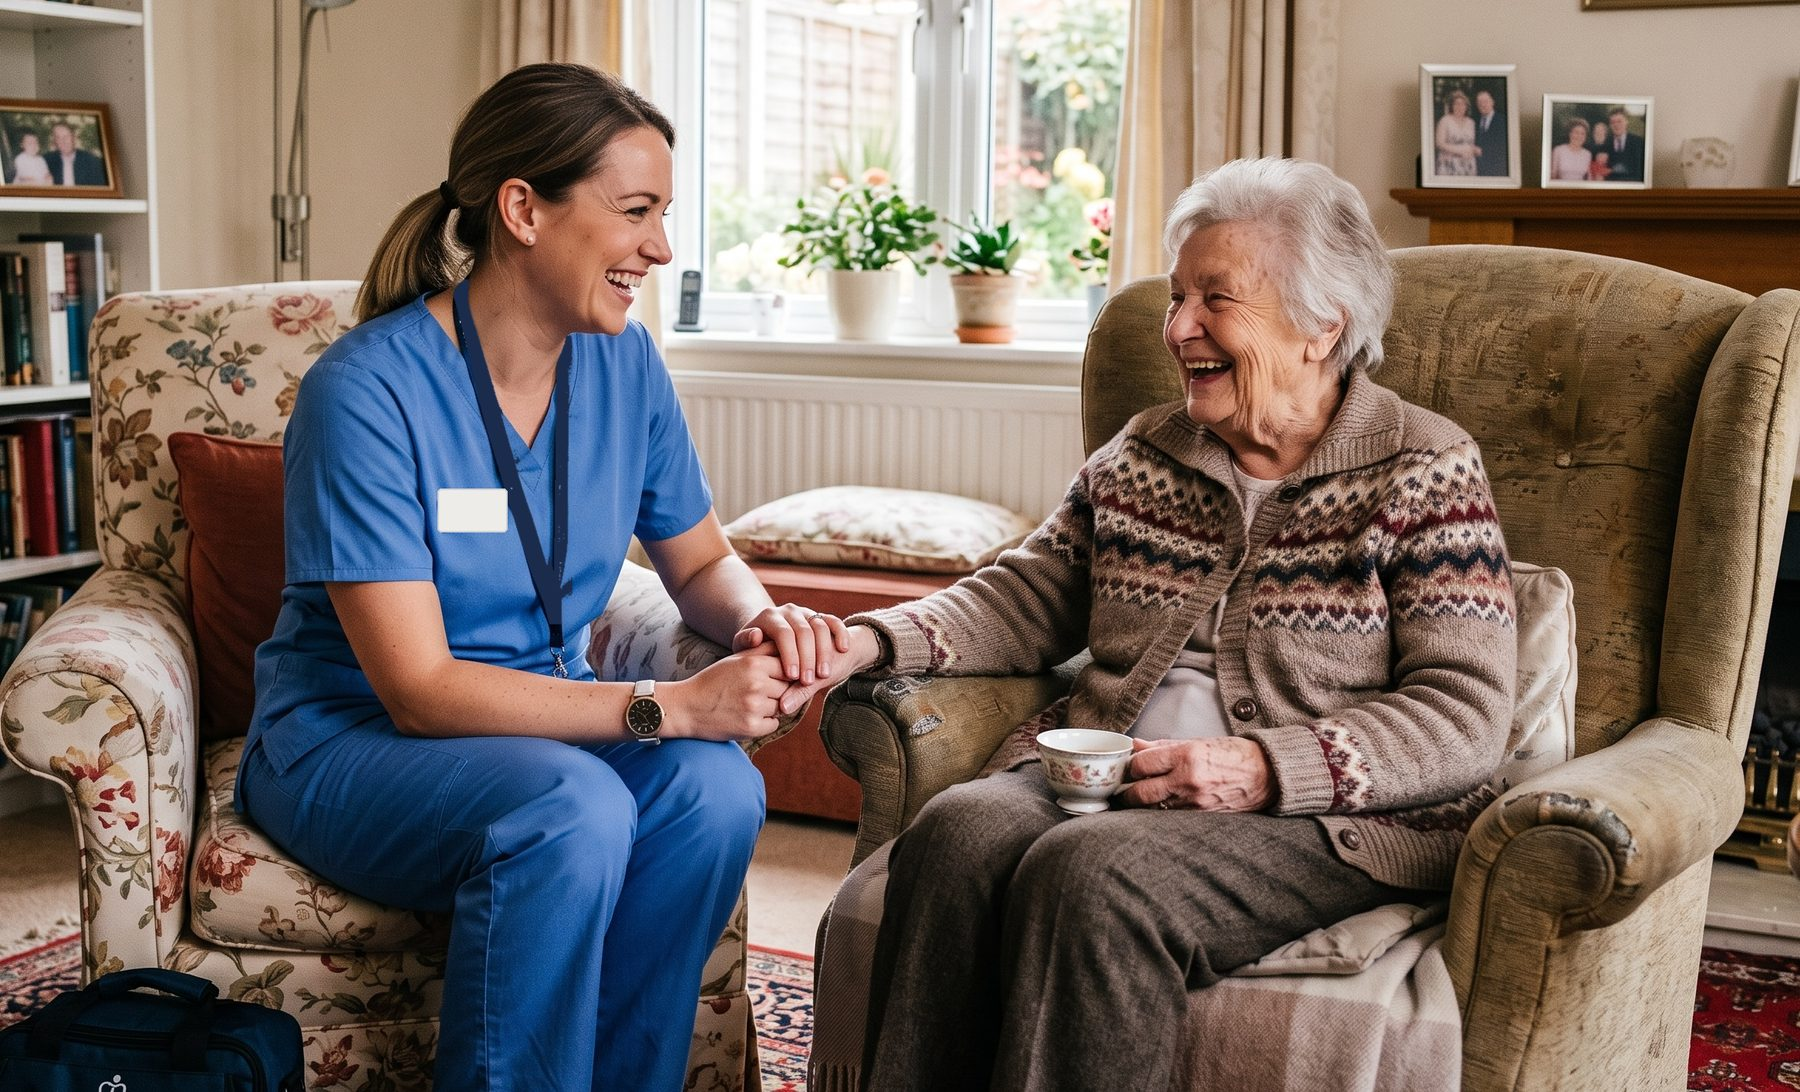
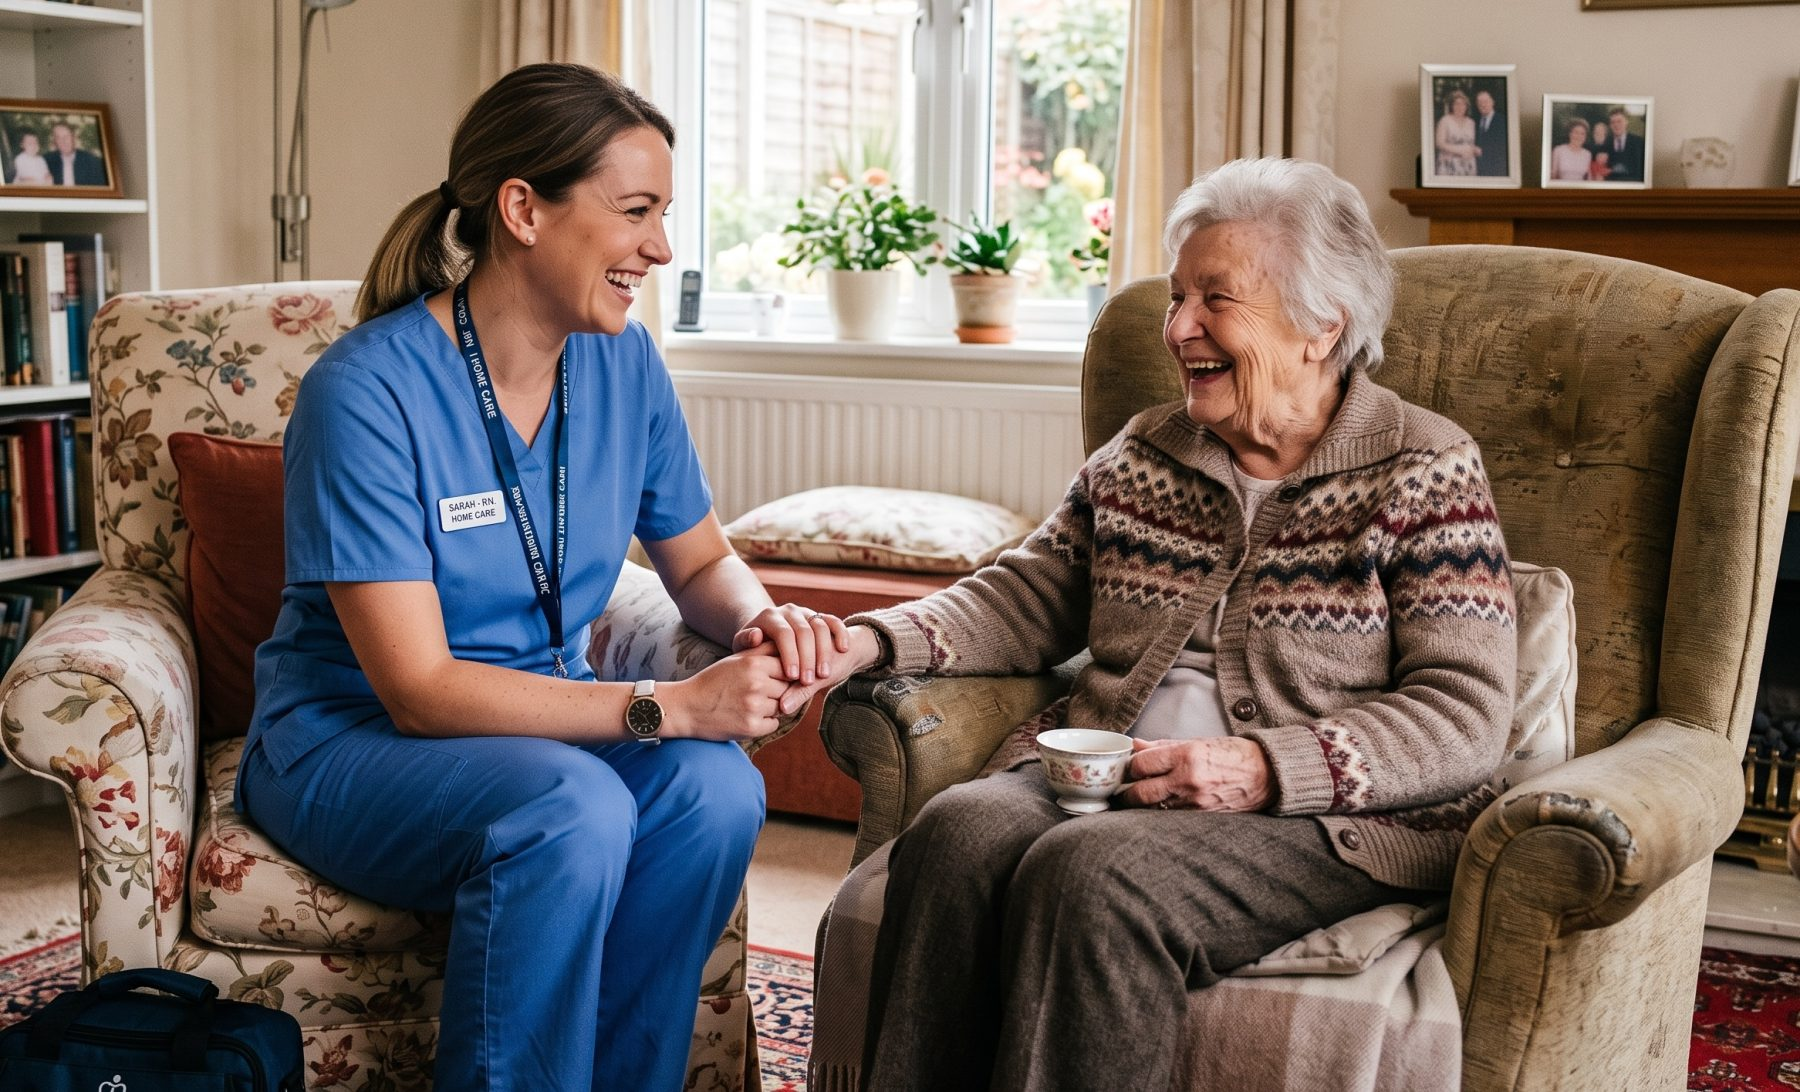
Home page photos in place and warm palette as the default

Changed region(s): [[0.2489, 0.3114, 0.3422, 0.5604], [0.2489, 0.2491, 0.28, 0.4048]]

diff --git a/app/page.tsx b/app/page.tsx
@@ -9,11 +9,11 @@ import { HONEST, PROMISE } from '@/lib/site'
 
 // The five types of care shown with thumbnails. Each links to its own page.
 const CARE = [
-  { slug: 'home-care', name: 'Visiting care', line: 'Help at the times of day it’s needed most.', link: 'Visiting home care', brief: 'a carer helping an older man with breakfast in his kitchen' },
-  { slug: 'live-in-care', name: 'Live-in care', line: 'A carer who lives in, for support day and night.', link: 'Live-in care', brief: 'a live-in carer and an older woman gardening together' },
-  { slug: 'overnight-care', name: 'Overnight care', line: 'Someone there through the night, awake or asleep.', link: 'Overnight care', brief: 'a calm evening scene, carer settling an older man with a cup of tea' },
-  { slug: 'dementia-care-at-home', name: 'Dementia care at home', line: 'Familiar faces, familiar routines, at home.', link: 'Dementia care at home', brief: 'a carer and an older woman looking through a photo album' },
-  { slug: 'respite-care-at-home', name: 'Respite care', line: 'Cover at home so a family carer can rest.', link: 'Respite care at home', brief: 'a daughter relaxing with a coffee while a carer chats with her father' },
+  { slug: 'home-care', name: 'Visiting care', line: 'Help at the times of day it’s needed most.', link: 'Visiting home care', brief: 'A carer sharing breakfast with an older man in his kitchen', img: '/images/care-visiting.jpg' },
+  { slug: 'live-in-care', name: 'Live-in care', line: 'A carer who lives in, for support day and night.', link: 'Live-in care', brief: 'A live-in carer and an older woman planting flowers together in her garden', img: '/images/care-live-in.jpg' },
+  { slug: 'overnight-care', name: 'Overnight care', line: 'Someone there through the night, awake or asleep.', link: 'Overnight care', brief: 'A carer bringing an older man a cup of tea in the evening', img: '/images/care-overnight.jpg' },
+  { slug: 'dementia-care-at-home', name: 'Dementia care at home', line: 'Familiar faces, familiar routines, at home.', link: 'Dementia care at home', brief: 'A carer and an older woman looking through a photo album together', img: '/images/care-dementia.jpg' },
+  { slug: 'respite-care-at-home', name: 'Respite care', line: 'Cover at home so a family carer can rest.', link: 'Respite care at home', brief: 'A daughter relaxing with a cup of tea while her father chats with his carer', img: '/images/care-respite.jpg' },
 ]
 
 export default function Home() {
@@ -52,7 +52,7 @@ export default function Home() {
               <p>Visiting care, live-in care, overnight and dementia care, from agencies near you.</p>
               <span className="go">Get matched, it’s free →</span>
             </div>
-            <Slot className="round" brief="a family member on the phone, smiling, at home" />
+            <Slot className="round" brief="A smiling woman on the phone at home" src="/images/family-phone.jpg" />
           </Link>
           <Link className="path dark" href="/for-agencies">
             <div>
@@ -61,7 +61,7 @@ export default function Home() {
               <p>Enquiries from families in the postcodes you cover. Pay per enquiry, no contract.</p>
               <span className="go">How it works for agencies →</span>
             </div>
-            <Slot className="round" brief="a care manager at a desk with a headset" />
+            <Slot className="round" brief="A care manager on a headset at her desk" src="/images/agency-manager.jpg" />
           </Link>
         </div>
       </div></section>
@@ -74,7 +74,7 @@ export default function Home() {
         <div className="care-cards">
           {CARE.map((c) => (
             <Link className="care-card" key={c.slug} href={`/${c.slug}`}>
-              <Slot brief={c.brief} />
+              <Slot brief={c.brief} src={c.img} />
               <div className="body"><h3>{c.name}</h3><p>{c.line}</p><span className="go">{c.link} →</span></div>
             </Link>
           ))}
@@ -96,7 +96,7 @@ export default function Home() {
             </ul>
             <p><Link className="btn" href="/how-it-works">How matching works</Link></p>
           </div>
-          <Slot className="big" brief="a relaxed family and carer chatting in a sunny kitchen" />
+          <Slot className="big wide" brief="A family and their carer chatting over tea around the kitchen table" src="/images/why-kitchen.jpg" />
         </div>
       </div></section>
 

diff --git a/app/globals.css b/app/globals.css
@@ -1,12 +1,12 @@
-/* Garden: calm greens, one marigold highlight, large legible type. Static heroes, no motion.
+/* Garden (warm): green and marigold brand on cream and sand neutrals, large legible type. Static heroes, no motion.
    Layout: a single 1120px column; sections alternate plain and tinted bands. */
 :root {
-  --bg: #F4F6F1;
-  --alt: #E6EDE3;
+  --bg: #FBF7F0;
+  --alt: #F3ECE1;
   --card: #FFFFFF;
   --ink: #173828;
-  --soft: #3F5A4B;
-  --line: #C9D6C6;
+  --soft: #4E5B52;
+  --line: #E6DCCC;
   --btn: #1E5A41;
   --btn-hover: #174733;
   --btn-ink: #FFFFFF;
@@ -306,19 +306,8 @@ th, td { text-align: left; padding: 10px 12px; border-bottom: 1px solid var(--li
 .path .slot { aspect-ratio: 1 / 1; width: 100%; }
 .path .slot span { display: none; }
 
-/* Warm variant for comparison: same green and marigold brand, warmer neutrals (cream ground, sand bands). */
-:root[data-palette="warm"] {
-  --bg: #FBF7F0;
-  --alt: #F3ECE1;
-  --card: #FFFFFF;
-  --soft: #4E5B52;
-  --line: #E6DCCC;
-}
-:root[data-palette="warm"] .slot { background: linear-gradient(160deg, #F3ECE1, #F6E3B4); }
-
-/* Preview-only palette switch */
-.palette-switch { position: fixed; right: 16px; bottom: calc(16px + env(safe-area-inset-bottom, 0px)); z-index: 50; background: #1C2230; color: #fff; border-radius: 999px; padding: 6px; display: flex; gap: 4px; align-items: center; font: 600 13px/1 system-ui, sans-serif; box-shadow: 0 8px 24px rgba(0, 0, 0, .25); }
-.palette-switch span { padding: 0 8px 0 10px; opacity: .8; }
-.palette-switch button { font: inherit; border: 0; border-radius: 999px; padding: 8px 12px; cursor: pointer; background: transparent; color: #fff; }
-.palette-switch button[aria-pressed="true"] { background: #fff; color: #1C2230; }
-@media (max-width: 900px) { .palette-switch { bottom: calc(84px + env(safe-area-inset-bottom, 0px)); } }
+/* Photos in slots */
+.slot.pic { display: block; width: 100%; height: auto; object-fit: cover; background: var(--alt); }
+.care-card .slot.pic { aspect-ratio: 4 / 3; }
+.path .slot.pic { aspect-ratio: 1 / 1; border-radius: 50%; }
+.slot.big.wide { aspect-ratio: 2 / 1; }

diff --git a/app/layout.tsx b/app/layout.tsx
@@ -6,7 +6,6 @@ import { Footer } from '@/components/Footer'
 import { MobileBar } from '@/components/Blocks'
 import { BRAND } from '@/lib/site'
 import { Attribution } from '@/components/Attribution'
-import { PaletteSwitch } from '@/components/PaletteSwitch'
 
 const atkinson = Atkinson_Hyperlegible({ subsets: ['latin'], weight: ['400', '700'], variable: '--font-atkinson', display: 'swap' })
 const newsreader = Newsreader({ subsets: ['latin'], weight: ['500', '600'], variable: '--font-newsreader', display: 'swap' })
@@ -19,7 +18,7 @@ export const metadata: Metadata = {
   // Until launch every page is noindex; flip NEXT_PUBLIC_SITE_LIVE=true on the real domain.
   robots: BRAND.live ? { index: true, follow: true } : { index: false, follow: false },
 }
-export const viewport: Viewport = { width: 'device-width', initialScale: 1, viewportFit: 'cover', themeColor: '#F4F6F1' }
+export const viewport: Viewport = { width: 'device-width', initialScale: 1, viewportFit: 'cover', themeColor: '#FBF7F0' }
 
 export default function RootLayout({ children }: { children: React.ReactNode }) {
   return (
@@ -31,7 +30,6 @@ export default function RootLayout({ children }: { children: React.ReactNode }) 
         <Footer />
         <MobileBar />
         <Attribution />
-        {!BRAND.live && <PaletteSwitch />}
       </body>
     </html>
   )

diff --git a/components/Slot.tsx b/components/Slot.tsx
@@ -1,5 +1,9 @@
-/** An image slot: a designed placeholder carrying the brief for the image that will replace it. */
-export function Slot({ brief, className = '' }: { brief: string; className?: string }) {
+/** An image slot: the photo when there is one, otherwise a designed placeholder carrying the brief for it. */
+export function Slot({ brief, src, className = '' }: { brief: string; src?: string; className?: string }) {
+  if (src) {
+    // eslint-disable-next-line @next/next/no-img-element
+    return <img className={`slot pic ${className}`} src={src} alt={brief} loading="lazy" decoding="async" />
+  }
   return (
     <div className={`slot ${className}`} role="img" aria-label={`Image to come: ${brief}`}>
       {/* eslint-disable-next-line @next/next/no-img-element */}
